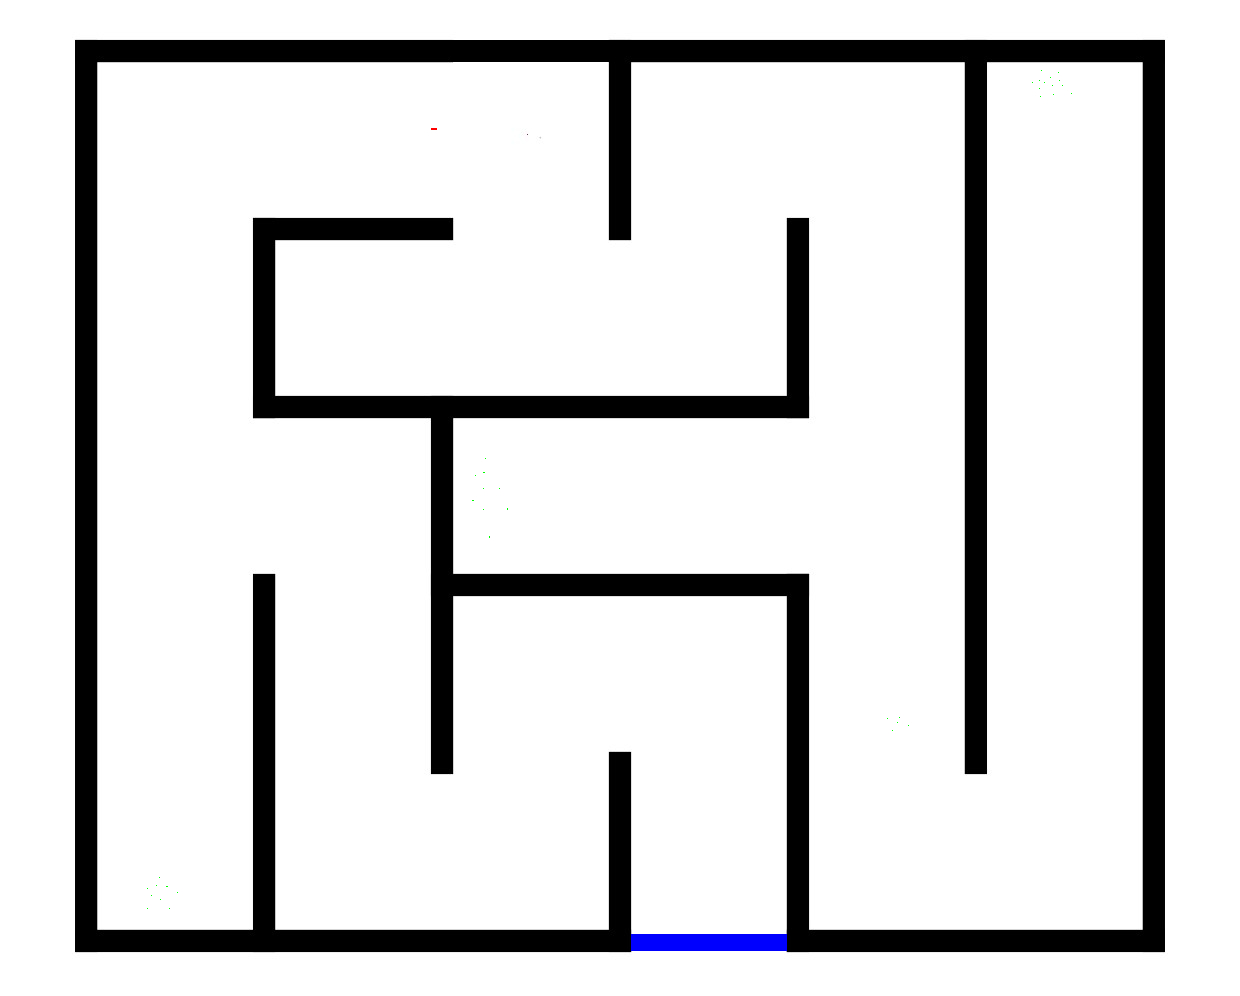
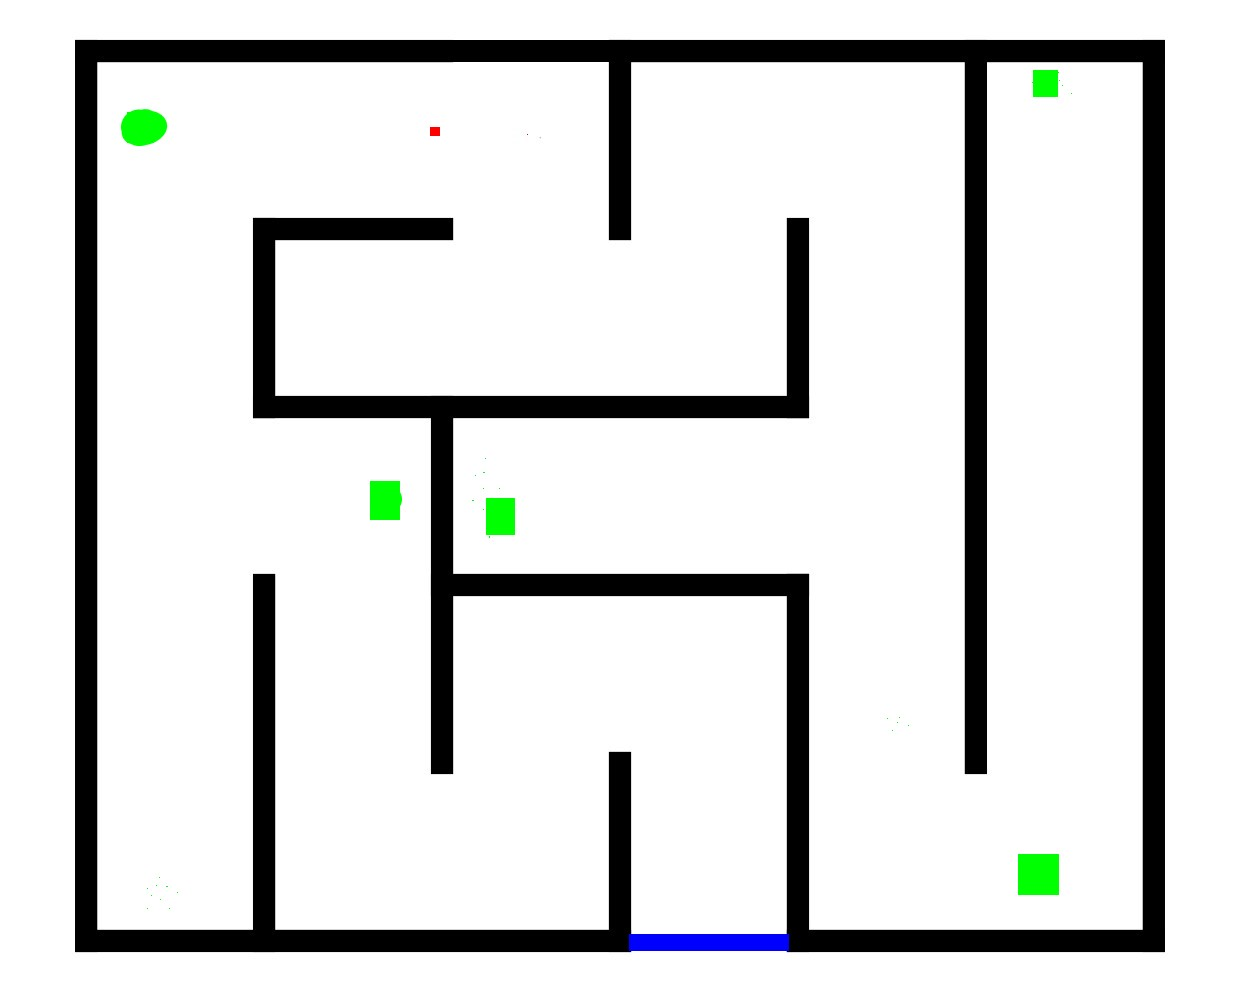
Detcción de llave y destrucción de puertas bloqueadas

diff --git a/main.py b/main.py
@@ -46,36 +46,36 @@ Pasos = pygame.mixer.Sound(pasos)
 
 # Muestra FPS
 class FPS:
-    def __init__ (self):
+    def __init__ (self, puntaje):
         self.clock = pygame.time.Clock()
         self.font = pygame.font.SysFont("Comic Sans MS", 20)
-        self.text = self.font.render(str(level_2.puntaje()), True, (0,0,0))
+        self.text = self.font.render(str(puntaje), True, (0,0,0))
         screen.blit(self.text, (10,10))
-    def render(self, screen):
-        self.text = self.font.render(str(level_2.puntaje()), True, (0,0,0))
+    def render(self, screen, puntaje):
+        self.text = self.font.render(str(puntaje), True, (0,0,0))
         screen.blit(self.text, (10,10))
-fps = FPS()
+fps = FPS(level_1.puntaje())
 
 # Bucle principal del juego
 while True:
     for event in pygame.event.get():
         # Inicio del modulo de sonido 1
         if event.type == pygame.KEYDOWN:
-            Pasos.play(-1)
-            # if (event.key == pygame.K_LEFT or event.key == pygame.K_a):
-            #     Pasos.play(-1)
-            # elif (event.key == pygame.K_RIGHT or event.key == pygame.K_d):
-            #     Pasos.play(-1)
-            # elif (event.key == pygame.K_DOWN or event.key == pygame.K_s):
-            #     Pasos.play(-1)
-            # elif (event.key == pygame.K_UP or event.key == pygame.K_w):
-            #     Pasos.play(-1)
+            
+            if (event.key == pygame.K_LEFT or event.key == pygame.K_a):
+                Pasos.play(-1)
+            elif (event.key == pygame.K_RIGHT or event.key == pygame.K_d):
+                Pasos.play(-1)
+            elif (event.key == pygame.K_DOWN or event.key == pygame.K_s):
+                Pasos.play(-1)
+            elif (event.key == pygame.K_UP or event.key == pygame.K_w):
+                Pasos.play(-1)
                 # Con este modulo si se apreta m se pausa la musica
                 # Con n se reanuda donde se dejo pausada
-            # elif (event.key == pygame.K_m):
-            #     pygame.mixer.music.pause()
-            # elif (event.key == pygame.K_n):
-            #     pygame.mixer.music.unpause()
+            elif (event.key == pygame.K_m):
+                pygame.mixer.music.pause()
+            elif (event.key == pygame.K_n):
+                pygame.mixer.music.unpause()
         # Fin del modulo de sonido
 
         # Con este comando si apretas ESC el juego se cerrará
@@ -99,7 +99,9 @@ while True:
             sys.exit()
 
     screen.fill('grey')
-    fps.render(screen)
-    level_2.run()
+    
+    level_1.run()
+    fps.render(screen, level_1.puntaje())
+    
     fps.clock.tick(60)
     pygame.display.flip()

diff --git a/niveles.py b/niveles.py
@@ -1,7 +1,7 @@
 
 import pygame
 from pygame import sprite
-
+import time
 from sprites import *
 from config import *
 from Mapas_pruebas import *
@@ -41,7 +41,7 @@ class level:
                     tile = wall((x,y), wall_type)
                     self.walls.add(tile)
 
-                elif cell == "g": # Deteccion de pixeles negros
+                elif cell == "g": # Deteccion de pixeles verdes
                     j = row_index*self.im.size[0]-(400)
                     k = col_index*self.im.size[1]-(300)
                     item = items((j, k))
@@ -57,7 +57,7 @@ class level:
                     else:
                         pass
 
-                elif cell == "a": # Deteccion de pixeles negros
+                elif cell == "a": # Deteccion de pixeles azues
                     j = (row_index)*self.im.size[0]-(400)
                     k = (col_index)*self.im.size[1]-(300)
                     door = lock_door((j, k))
@@ -75,7 +75,7 @@ class level:
 
 
     # Movimiento del mundo
-    def scroll_world(self):
+    def scroll_world(self): # Límite de velocidad
         if self.world_y_shift > 3 or self.world_x_shift > 3:
             self.world_x_shift=0
             self.world_y_shift=0
@@ -83,7 +83,7 @@ class level:
             self.world_x_shift=0
             self.world_y_shift=0
 
-        self.keys = pygame.key.get_pressed()
+        self.keys = pygame.key.get_pressed() # Obtención de teclas
 
 
 
@@ -177,7 +177,17 @@ class level:
                 self.items.remove(i)
                 self.score += 100
                 self.moneda.play()
+                print(self.score)
         return self.score
+
+    def llave(self):
+
+        for key in self.door_keys:
+            if key.rect.colliderect(self.player):
+                self.door_keys.remove(key)
+
+                for door in self.lock_doors:
+                    self.lock_doors.remove(door)
 
     # Activacion de todas las funciones de esta clase
     def run(self):
@@ -194,3 +204,4 @@ class level:
         self.scroll_world()
         self.colisiones()
         self.puntaje()
+        self.llave()

diff --git a/Mapas_pruebas.py b/Mapas_pruebas.py
@@ -15,7 +15,7 @@ def mapeo(image):
 
     # Cambia el tamaño de la imagen para que se ajuste a la
     # pantalla del juego
-    im2 = im.resize((screen_size.current_h-150,screen_size.current_h-150))
+    im2 = im.resize((800,600))
 
     # Crea una lista con todos los pixeles en RGB de a imagen
     pix = im2.load()
@@ -36,7 +36,7 @@ def mapeo(image):
             elif pix[row, column][0] in range(255-x,255,1) and pix[row, column][1] in range(x) and pix[row, column][2] in range(x):
                 a.append("r")
 
-            elif pix[row, column][0] in range(x) and pix[row, column][1] in range(x) and pix[row, column][2] in range(255-x,255,1):
+            elif pix[row, column][0] in range(x) and pix[row, column][1] in range(x) and pix[row, column][2] in range(0,255,1):
                 a.append("a")
             else:
                 a.append(" ")

diff --git a/config.py b/config.py
@@ -4,10 +4,8 @@ from Mapas_pruebas import mapeo
 from PIL import Image
 
 # Creacion de lista de caracteres con los pixeles relevantes
-level_map_1 = mapeo('laberinto.jpg')
-level_map_2 = mapeo('laberinto2.jpg')
-level_map_3 = mapeo('laberinto3.jpg')
-
-
+level_map_1 = mapeo('Laberintos\Level_1.jpg')
+level_map_2 = mapeo('Laberintos\Level_2.jpg')
+level_map_3 = mapeo('Laberintos\Level_3.jpg')
 
 
